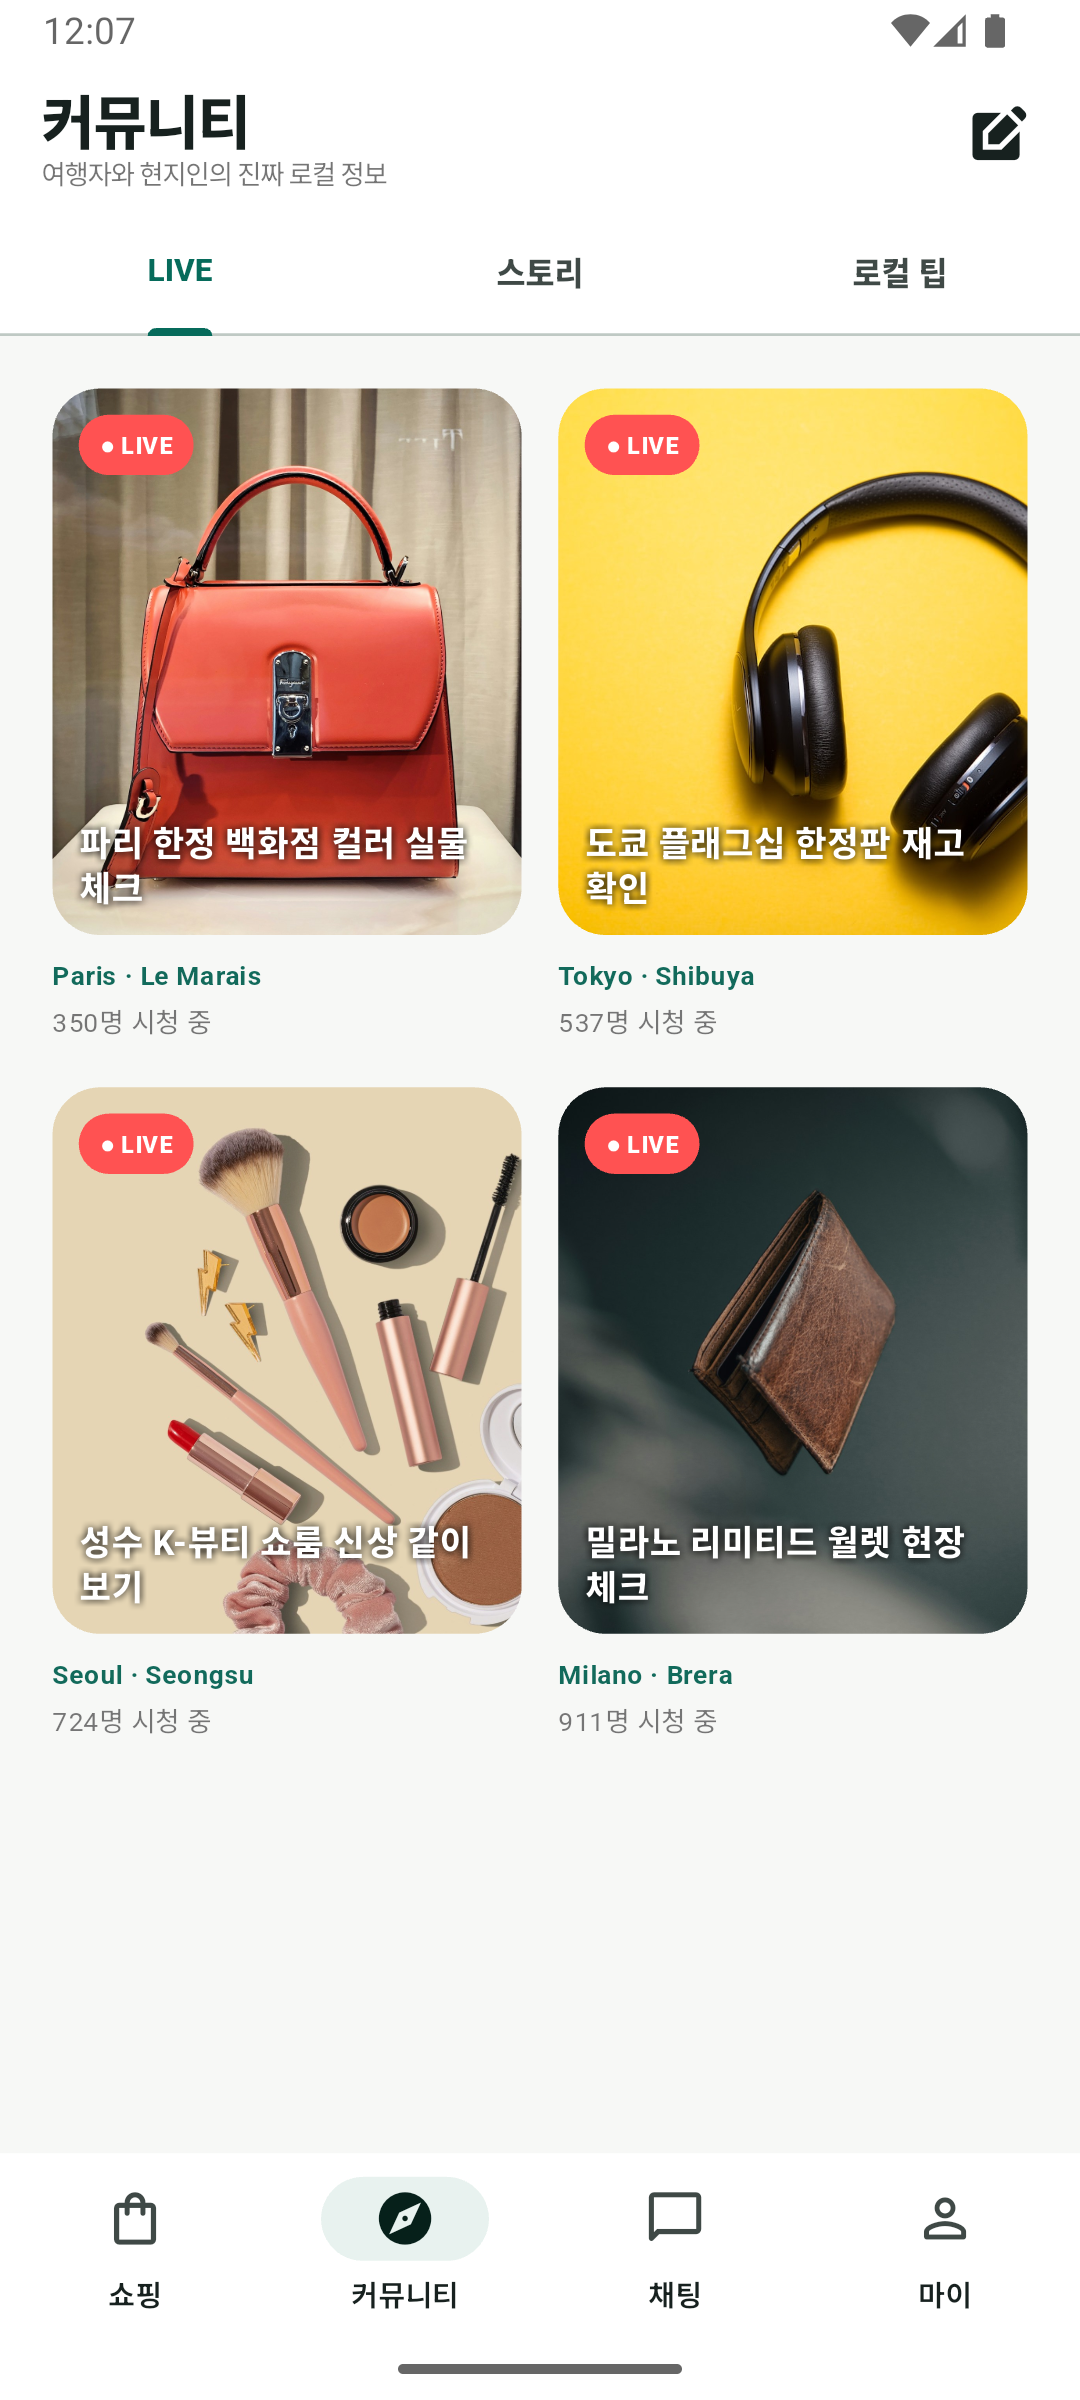
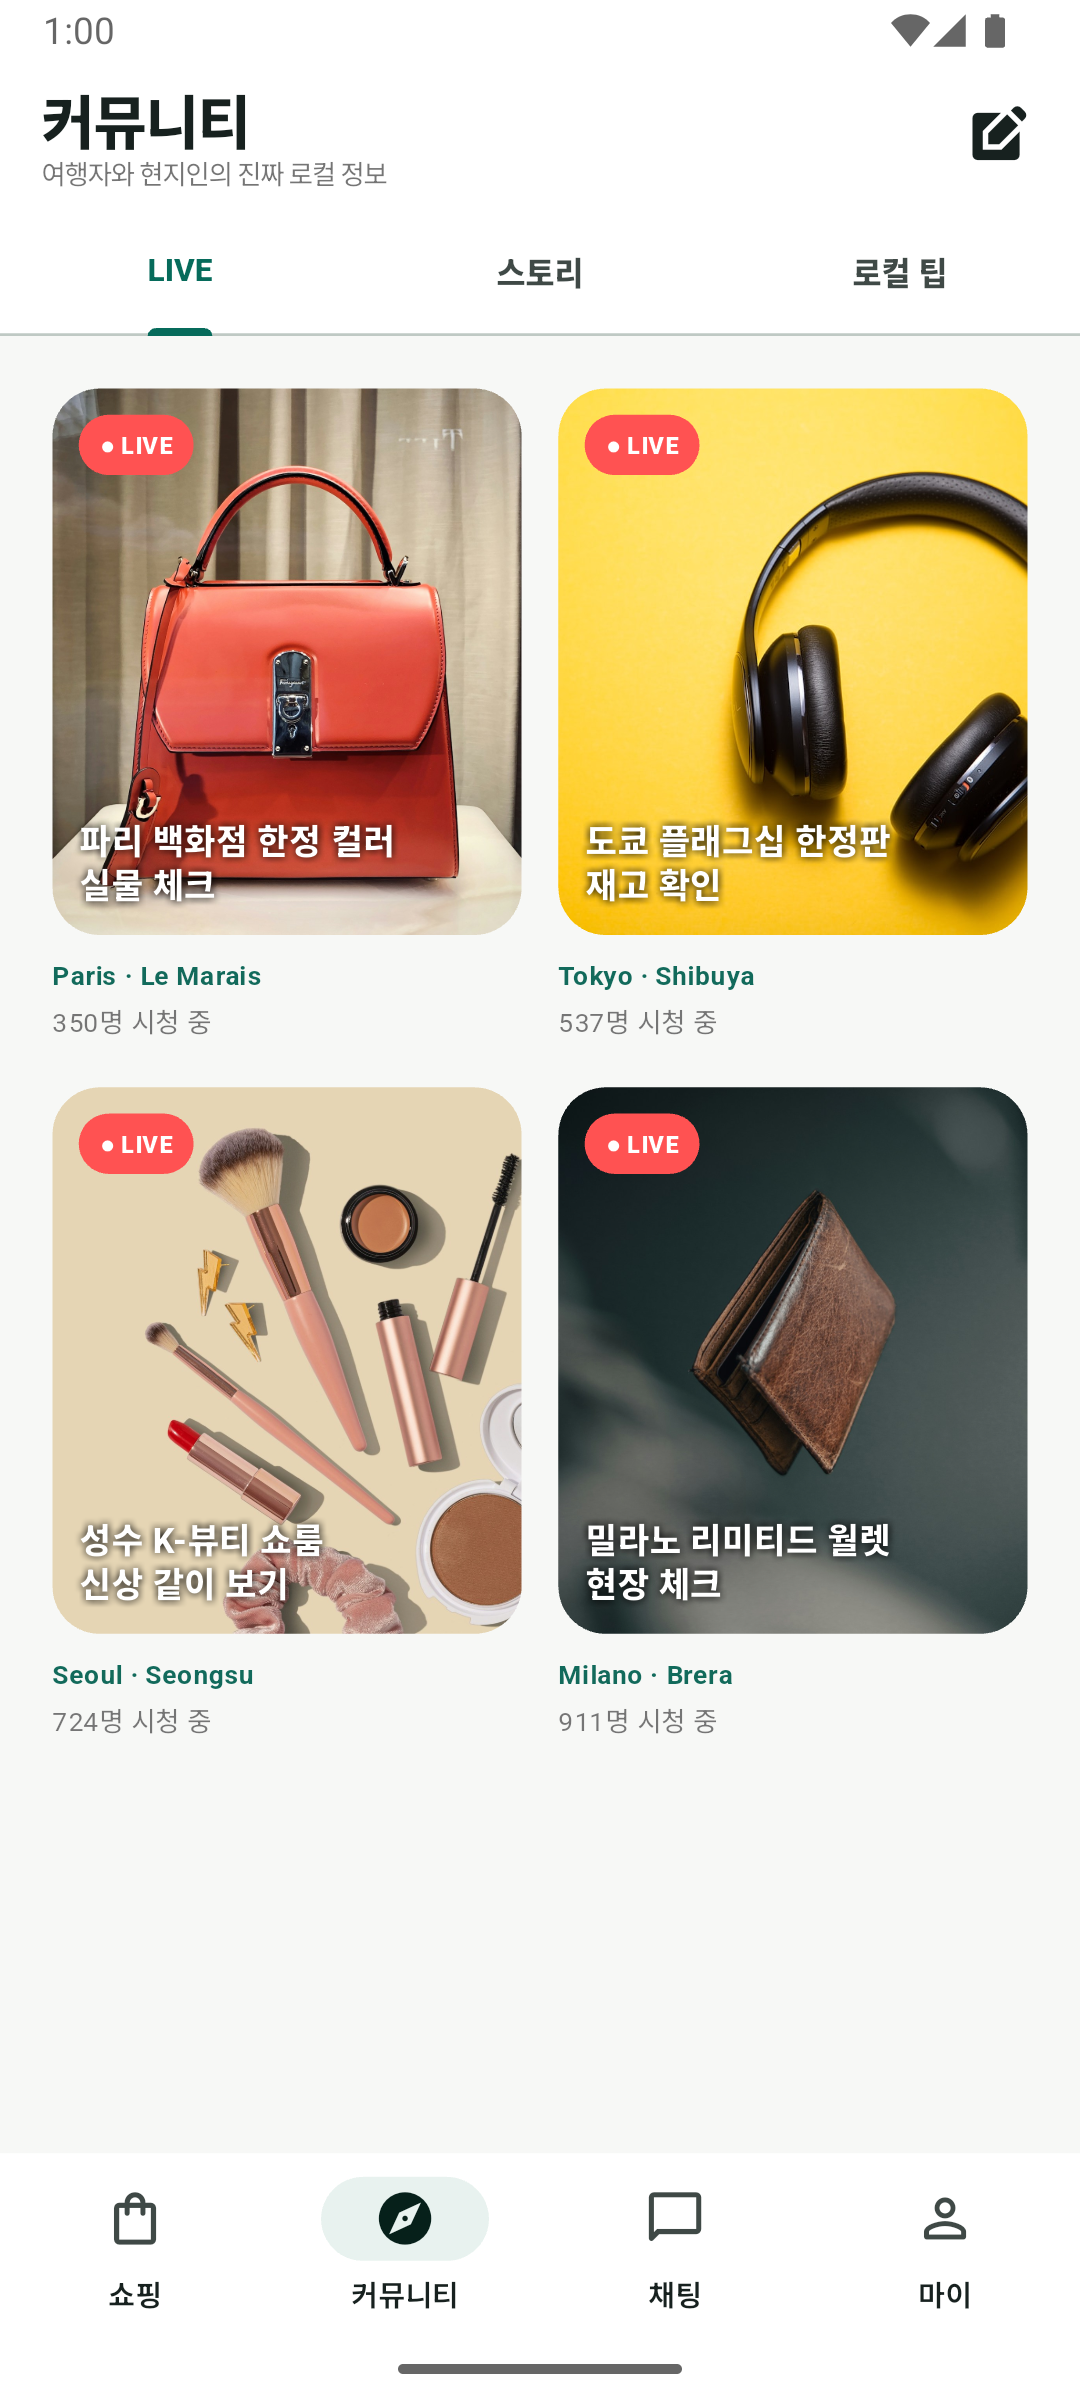
docs: complete portfolio preview flow

diff --git a/lib/screens/community_screen.dart b/lib/screens/community_screen.dart
@@ -53,10 +53,10 @@ class _LiveTab extends StatelessWidget {
   Widget build(BuildContext context) {
     final items = demoMarketplaceItems.take(4).toList();
     const liveTitles = [
-      '파리 한정 백화점 컬러 실물 체크',
-      '도쿄 플래그십 한정판 재고 확인',
-      '성수 K-뷰티 쇼룸 신상 같이 보기',
-      '밀라노 리미티드 월렛 현장 체크',
+      '파리 백화점 한정 컬러\n실물 체크',
+      '도쿄 플래그십 한정판\n재고 확인',
+      '성수 K-뷰티 쇼룸\n신상 같이 보기',
+      '밀라노 리미티드 월렛\n현장 체크',
     ];
     return GridView.builder(
       padding: const EdgeInsets.all(20),

diff --git a/README.md b/README.md
@@ -48,15 +48,20 @@ The preview follows the same order a first-time user would experience the servic
       <sub>Creates the identity other buyers and travelers will see.<br />다른 사용자에게 보여질 프로필 사진과 닉네임을 설정합니다.</sub>
     </td>
     <td width="50%" align="center">
-      <img src=".github/assets/portfolio/13-signup-mode.png" width="86%" alt="Nomad Market signup mode" /><br />
-      <b>6. Currency & User Mode / 통화와 이용 모드</b><br />
-      <sub>Selects preferred currencies and Buyer / Seller intent.<br />선호 통화와 Buyer / Seller 이용 목적을 선택합니다.</sub>
+      <img src=".github/assets/portfolio/15-signup-region.png" width="86%" alt="Nomad Market signup activity region" /><br />
+      <b>6. Activity Region / 활동 지역</b><br />
+      <sub>Selects the region, country, and city used for traveler matching and recommendations.<br />여행자 매칭과 상품 추천에 활용할 지역·국가·도시를 선택합니다.</sub>
     </td>
   </tr>
   <tr>
-    <td colspan="2" align="center">
-      <img src=".github/assets/portfolio/14-signup-complete.png" width="42%" alt="Nomad Market signup complete" /><br />
-      <b>7. Signup Complete / 가입 완료</b><br />
+    <td width="50%" align="center">
+      <img src=".github/assets/portfolio/13-signup-mode.png" width="86%" alt="Nomad Market signup mode" /><br />
+      <b>7. Currency & User Mode / 통화와 이용 모드</b><br />
+      <sub>Selects preferred currencies and Buyer / Seller intent.<br />선호 통화와 Buyer / Seller 이용 목적을 선택합니다.</sub>
+    </td>
+    <td width="50%" align="center">
+      <img src=".github/assets/portfolio/14-signup-complete.png" width="86%" alt="Nomad Market signup complete" /><br />
+      <b>8. Signup Complete / 가입 완료</b><br />
       <sub>Summarizes region, languages, currencies, and user mode before entering the marketplace.<br />활동 지역, 언어, 통화, 이용 모드를 확인한 뒤 마켓으로 진입합니다.</sub>
     </td>
   </tr>
@@ -68,31 +73,36 @@ The preview follows the same order a first-time user would experience the servic
   <tr>
     <td width="50%" align="center">
       <img src=".github/assets/portfolio/01-marketplace.png" width="86%" alt="Nomad Market global shopping home" /><br />
-      <b>8. Global Shopping Home / 글로벌 쇼핑 홈</b><br />
+      <b>9. Global Shopping Home / 글로벌 쇼핑 홈</b><br />
       <sub>Shows the active trip context, local picks, categories, and traveler-powered discovery.<br />현재 여행 동선, 현지 픽, 카테고리와 여행자 기반 상품 탐색을 보여줍니다.</sub>
     </td>
     <td width="50%" align="center">
       <img src=".github/assets/portfolio/02-search-or-category.png" width="86%" alt="Nomad Market search and category" /><br />
-      <b>9. Search & Category / 검색과 카테고리</b><br />
+      <b>10. Search & Category / 검색과 카테고리</b><br />
       <sub>Searches by city, limited goods, K-beauty, and original Nomad categories.<br />도시, 한정판, K-뷰티 등 Nomad Market 특화 카테고리로 상품을 탐색합니다.</sub>
     </td>
   </tr>
   <tr>
     <td width="50%" align="center">
-      <img src=".github/assets/portfolio/03-product-detail.png" width="86%" alt="Nomad Market product detail" /><br />
-      <b>10. Product Detail / 상품 상세</b><br />
-      <sub>Combines sourcing location, seller trust, arrival schedule, condition, and purchase context.<br />소싱 지역, 판매자 신뢰도, 도착 일정, 상품 상태와 구매 맥락을 함께 제공합니다.</sub>
+      <img src=".github/assets/portfolio/18-local-experts.png" width="86%" alt="Nomad Market local experts and local trends" /><br />
+      <b>11. Local Experts / 현지 전문가</b><br />
+      <sub>Connects live local trends with trusted travelers who can source and verify products.<br />실시간 현지 트렌드와 상품을 직접 확인해 줄 신뢰도 높은 여행자를 연결합니다.</sub>
     </td>
     <td width="50%" align="center">
-      <img src=".github/assets/portfolio/08-purchase-request.png" width="86%" alt="Nomad Market purchase request" /><br />
-      <b>11. Purchase Request / 구매 요청</b><br />
-      <sub>Turns product discovery into a concrete request to a local expert or traveler.<br />탐색한 상품을 현지 전문가 또는 여행자에게 실제 구매 요청으로 연결합니다.</sub>
+      <img src=".github/assets/portfolio/03-product-detail.png" width="86%" alt="Nomad Market product detail" /><br />
+      <b>12. Product Detail / 상품 상세</b><br />
+      <sub>Combines sourcing location, seller trust, arrival schedule, condition, and purchase context.<br />소싱 지역, 판매자 신뢰도, 도착 일정, 상품 상태와 구매 맥락을 함께 제공합니다.</sub>
     </td>
   </tr>
   <tr>
-    <td colspan="2" align="center">
-      <img src=".github/assets/portfolio/06-chat.png" width="42%" alt="Nomad Market request chat" /><br />
-      <b>12. Request Chat / 구매 요청 채팅</b><br />
+    <td width="50%" align="center">
+      <img src=".github/assets/portfolio/08-purchase-request.png" width="86%" alt="Nomad Market purchase request" /><br />
+      <b>13. Purchase Request / 구매 요청</b><br />
+      <sub>Turns product discovery into a concrete request to a local expert or traveler.<br />탐색한 상품을 현지 전문가 또는 여행자에게 실제 구매 요청으로 연결합니다.</sub>
+    </td>
+    <td width="50%" align="center">
+      <img src=".github/assets/portfolio/06-chat.png" width="86%" alt="Nomad Market request chat" /><br />
+      <b>14. Request Chat / 구매 요청 채팅</b><br />
       <sub>Continues price, condition, pickup, and arrival-schedule discussion inside the app.<br />가격, 상태, 픽업 방법, 입국 일정을 앱 내 채팅에서 이어서 협의합니다.</sub>
     </td>
   </tr>
@@ -104,20 +114,25 @@ The preview follows the same order a first-time user would experience the servic
   <tr>
     <td width="50%" align="center">
       <img src=".github/assets/portfolio/04-create-listing.png" width="86%" alt="Nomad Market local find registration" /><br />
-      <b>13. Local Find Registration / 현지 상품 등록</b><br />
+      <b>15. Local Find Registration / 현지 상품 등록</b><br />
       <sub>Lets travelers register items found during a trip with city, price, schedule, and notes.<br />여행자가 현지에서 발견한 상품을 도시, 가격, 이동 일정과 함께 등록합니다.</sub>
     </td>
     <td width="50%" align="center">
       <img src=".github/assets/portfolio/05-profile-or-seller.png" width="86%" alt="Nomad Market My Nomad" /><br />
-      <b>14. My Nomad / 마이 노마드</b><br />
+      <b>16. My Nomad / 마이 노마드</b><br />
       <sub>Summarizes trust, active listings, saved items, messages, and upcoming travel routes.<br />신뢰도, 판매글, 관심 상품, 메시지와 다음 여행 일정을 한곳에서 관리합니다.</sub>
     </td>
   </tr>
   <tr>
-    <td colspan="2" align="center">
-      <img src=".github/assets/portfolio/07-community.png" width="42%" alt="Nomad Market community live" /><br />
-      <b>15. Community & LIVE / 커뮤니티와 LIVE</b><br />
+    <td width="50%" align="center">
+      <img src=".github/assets/portfolio/17-community-live.png" width="86%" alt="Nomad Market community live" /><br />
+      <b>17. Community & LIVE / 커뮤니티와 LIVE</b><br />
       <sub>Extends shopping into local stories, real-time product checks, and cultural exchange.<br />로컬 스토리, 실시간 상품 확인, 문화 교류로 쇼핑 경험을 확장합니다.</sub>
+    </td>
+    <td width="50%" align="center">
+      <img src=".github/assets/portfolio/16-community-local-tips.png" width="86%" alt="Nomad Market community local tips" /><br />
+      <b>18. Local Tips / 로컬 팁</b><br />
+      <sub>Collects practical travel-commerce guidance on fees, carry-on rules, safe meetups, and local communication.<br />수수료, 기내 반입, 안전한 직거래, 현지 판매자와의 대화처럼 실제 거래에 필요한 팁을 제공합니다.</sub>
     </td>
   </tr>
 </table>
